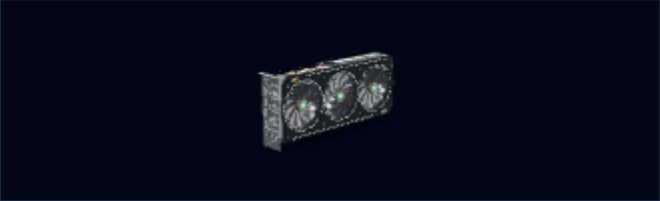
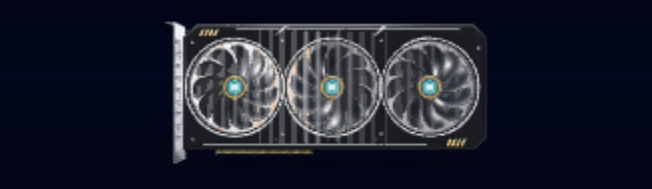
fix(rooms): aproximar a câmera do rack no yaw
105% cabia a esfera inteira e deixava a placa pequena na baia larga. No horizonte, 54.5% é o raio em que a altura cabe e o giro ainda não corta.

Changed region(s): [[0.2454, 0.1058, 0.7669, 0.873], [0.0, 0.9788, 1.0, 1.0]]

diff --git a/client/src/features/offers/components/OfferMinerModel.tsx b/client/src/features/offers/components/OfferMinerModel.tsx
@@ -10,12 +10,15 @@ const OFFER_MODEL_FEATURE_SPIN = '8deg';
 export const OFFER_MODEL_THUMB_ORBIT = '18deg 74deg 88%';
 export const OFFER_MODEL_THUMB_FOV = '20deg';
 /**
- * model-viewer turns a percent radius into a fraction of idealCameraDistance,
- * which is boundingSphere.radius / sin(fov/2). 100% fits that sphere in the
- * framed field of view, so every yaw stays inside it. 105% is the library's
- * own margin (its default orbit). The offer stage keeps a closer orbit on purpose.
+ * Percent radius is a fraction of idealCameraDistance, boundingSphere.radius / sin(fov/2).
+ * Auto-rotate yaws only. At phi 75 the end-on view is the tall projection, so framing
+ * the sphere (105%) or even the tight phi-75 fit (71%) leaves the face small in the wide bay.
+ * Phi 90 keeps the camera on the horizon. A 24-angle pixel sweep of MinerCore MCX9
+ * at the real bay boxes (651×188 and 248×66) clips below 54.5% and fits at 54.5%.
+ * Desktop alone could use 52.9%; that is about 3% of the card, so both bays share 54.5%.
+ * Offer featured and thumb keep their own orbits.
  */
-export const RACK_MODEL_ORBIT = '12deg 75deg 105%';
+export const RACK_MODEL_ORBIT = '12deg 90deg 54.5%';
 export const RACK_MODEL_FOV = '16deg';
 
 let modelViewerScriptPromise: Promise<void> | null = null;

diff --git a/client/src/features/offers/components/OfferMinerModel.test.ts b/client/src/features/offers/components/OfferMinerModel.test.ts
@@ -16,10 +16,8 @@ describe('offer and rack cameras stay separate', () => {
     expect(OFFER_MODEL_THUMB_FOV).toBe('20deg');
   });
 
-  it('frames the rack orbit on the bounding sphere', () => {
-    const radius = RACK_MODEL_ORBIT.split(' ')[2] ?? '';
-    expect(radius.endsWith('%')).toBe(true);
-    expect(Number(radius.slice(0, -1))).toBeGreaterThanOrEqual(105);
+  it('frames the rack orbit on the yaw of this bay, not on the offer stage', () => {
+    expect(RACK_MODEL_ORBIT).toBe('12deg 90deg 54.5%');
     expect(RACK_MODEL_FOV).toBe('16deg');
     expect(RACK_MODEL_ORBIT).not.toBe(OFFER_MODEL_FEATURE_ORBIT);
     expect(RACK_MODEL_ORBIT).not.toBe(OFFER_MODEL_THUMB_ORBIT);

diff --git a/client/src/features/inventory2/lib/inventory2.rackLayout.ts b/client/src/features/inventory2/lib/inventory2.rackLayout.ts
@@ -41,8 +41,8 @@ const SLOT_H_PCT = 36;
 /** A few pixels larger than the art’s natural fit inside the shelf bay. */
 export const RACK_MACHINE_VISUAL_SCALE = 1.04;
 /**
- * The rack camera already frames the bounding sphere. Scaling that canvas
- * past 1 pushes the sphere through the bay on the diagonal of the spin.
+ * The rack camera already fills the bay height on the tall yaw. Scaling that
+ * canvas past 1 pushes the mesh through the bay.
  */
 export const RACK_MODEL_VISUAL_SCALE = 1;
 

diff --git a/docs/auditoria/showcase-rack-camera/relatorio.md b/docs/auditoria/showcase-rack-camera/relatorio.md
@@ -6,22 +6,39 @@ O checkout compartilhado não foi trocado. `.env.production` não foi editado. A
 
 ## Causa
 
-`RACK_MODEL_ORBIT` estava em `12deg 75deg 38%`. No model-viewer 3.5.0 a porcentagem do raio é fração de `idealCameraDistance()`, que vale `boundingSphere.radius / sin(fov/2)`. 100% cabe a esfera dos bounds no campo de visão. 38% enquadra a face da placa e, no giro, a diagonal dessa esfera sai por cima e por baixo.
+`RACK_MODEL_ORBIT` estava em `12deg 75deg 38%`. No model-viewer 3.5.0 a porcentagem do raio é fração de `idealCameraDistance()`, que vale `boundingSphere.radius / sin(fov/2)`. 38% enquadra a face e, no giro, a placa corta em cima e embaixo.
 
-O raio do rack passou para `12deg 75deg 105%`. 105% é a margem do próprio model-viewer (a órbita default da biblioteca). O campo de visão do rack continua `16deg`: com o raio em porcentagem, mudar o FOV não muda o enquadramento da esfera.
+`105%` cabe a esfera inteira. Isso protege rotação em qualquer eixo. O auto-rotate deste rack gira só no yaw, e a baia é larga e baixa (651×188 em 1440, 248×66 em 320). Enquadrar a esfera deixa a face pequena: em 1440 ela ocupava cerca de 25% da largura e 39% da altura.
 
-`OFFER_MODEL_FEATURE_ORBIT` (`16deg 72deg 68%`, FOV `16deg`) e `OFFER_MODEL_THUMB_ORBIT` (`18deg 74deg 88%`, FOV `20deg`) não mudaram. São constantes separadas, usadas só quando o modo não é `rack`.
+A altura projetada não é constante com a câmera a 75° (15° acima do horizonte). De perfil, o comprimento da placa entra na vertical, e essa vista fica mais alta que a face. Uma varredura de 24 ângulos, de 15° em 15°, no pixel da malha:
 
-`RACK_MACHINE_VISUAL_SCALE` continua `1.04` na arte da prateleira. O modelo 3D usa `RACK_MODEL_VISUAL_SCALE = 1`. O `scale(1.04)` com `origin-bottom` empurrava a esfera já enquadrada para fora da baia. O `overflow-hidden` do slot ficou. O viewBox do SVG e as coordenadas das baias não mudaram.
+- phi 75°, raio 71.3%: cabe em todos os ângulos, mas a face fica em 38.1% × 58.5%. Abaixo disso a vista perto de 255° toca a base.
+- phi 90°, raio 52.9% na baia de 651×188: cabe, face em 50.7% × 77.7%. 52.5% já corta em 255°.
+- phi 90°, raio 54.5% na baia de 248×66: cabe, com a folga do bob de 2px. 54.2% corta em 255°.
+
+A diferença entre 52.9% e 54.5% é cerca de 3% da placa. Os dois breakpoints usam o mesmo raio, o mais restritivo: `12deg 90deg 54.5%`. O campo de visão continua `16deg`. A largura que sobra é a baia (proporção ~3,5:1) contra a face da placa (~2,3:1): com a altura em ~76%, a face não passa de ~50% da largura sem cortar o perfil.
+
+`OFFER_MODEL_FEATURE_ORBIT` (`16deg 72deg 68%`, FOV `16deg`) e `OFFER_MODEL_THUMB_ORBIT` (`18deg 74deg 88%`, FOV `20deg`) não mudaram.
+
+`RACK_MACHINE_VISUAL_SCALE` continua `1.04` na arte da prateleira. O modelo 3D usa `RACK_MODEL_VISUAL_SCALE = 1`. O `overflow-hidden` do slot ficou. O viewBox do SVG e as coordenadas das baias não mudaram.
 
 ## Lab
 
-Usuário semeado 10044, login pelo formulário, `SHOWCASE_3D_ROOM_ENABLED=1` só no processo de lab. Uma MinerCore MCX9 instalada numa baia. A câmera foi parada e o theta foi posto em 0, 45, 90 e 135 graus, com phi 75° e raio 105%. O `getCameraOrbit()` devolveu esses ângulos. Conta e senha apagadas. API `:3000` e Vite `:5174` encerrados. O Vite de `:5173` ficou no ar.
+Usuário semeado 10045, login pelo formulário, `SHOWCASE_3D_ROOM_ENABLED=1` só no processo de lab. Uma MinerCore MCX9 instalada numa baia. A câmera embarcada era `12deg 90deg 54.5%` / `16deg`. O theta foi posto em 0, 45, 90 e 135, com phi 90°. `scrollWidth` = `clientWidth` = 1440 e 320. O viewer mediu 651×188 e 248×66. Conta e senha apagadas depois das capturas.
 
-Em 1440 o `model-viewer` mediu 651×188 e `scrollWidth` = `clientWidth` = 1440. Em 320 mediu 248×66 e `scrollWidth` = `clientWidth` = 320. Nos oito quadros a placa fica inteira, com faixa escura em cima e embaixo, inclusive na vista de perfil (135°), que é a projeção alta.
+Porcentagem da placa dentro do viewer (largura × altura), com a folga em pixels:
+
+| viewport | ângulo | largura | altura | topo | base |
+| --- | --- | --- | --- | --- | --- |
+| 1440 | 0° | 49.4% | 75.7% | 21px | 25px |
+| 1440 | 45° | 39.7% | 79.4% | 15px | 24px |
+| 1440 | 90° | 10.7% | 82.5% | 10px | 23px |
+| 1440 | 135° | 39.4% | 76.7% | 14px | 30px |
+| 320 | 0° | 45.2% | 76.1% | 7px | 9px |
+| 320 | 45° | 37.1% | 81.8% | 3px | 9px |
+| 320 | 90° | 9.7% | 82.1% | 5px | 7px |
+| 320 | 135° | 36.3% | 77.3% | 7px | 8px |
+
+Nenhum dos oito quadros corta. A folga mais curta é 3px no topo, em 320 a 45°.
 
 Capturas: `preview-1440-0.png`, `preview-1440-45.png`, `preview-1440-90.png`, `preview-1440-135.png`, `preview-320-0.png`, `preview-320-45.png`, `preview-320-90.png`, `preview-320-135.png`.
-
-## Gate
-
-`cd client && npx vite build` exit 0. Suíte do client: 1101 testes em 132 arquivos, exit 0. Este `origin/main` já estava acima dos 1095/130 do lote anterior; o arquivo novo `OfferMinerModel.test.ts` acrescenta 2. `tests/rooms/rooms.showcase.unit.test.mjs`: 9 passaram. `tsc --noEmit`: 61 `error TS`, exit 2, nenhum nestes arquivos.
